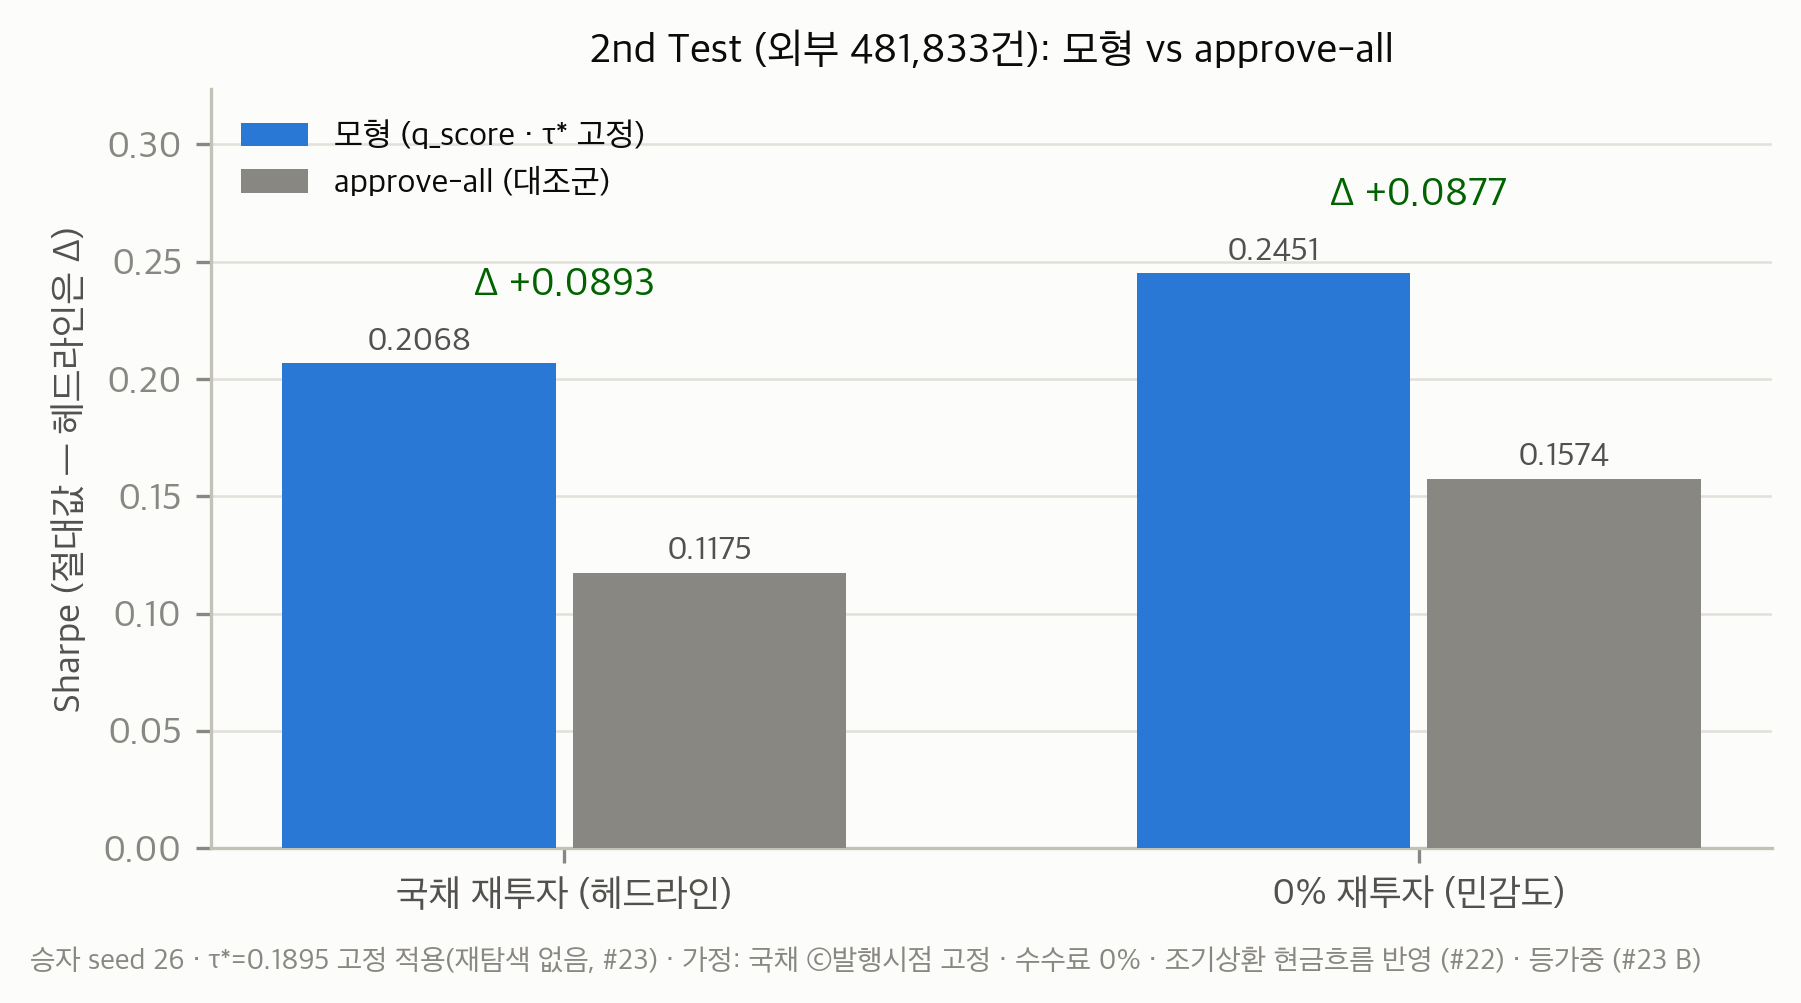
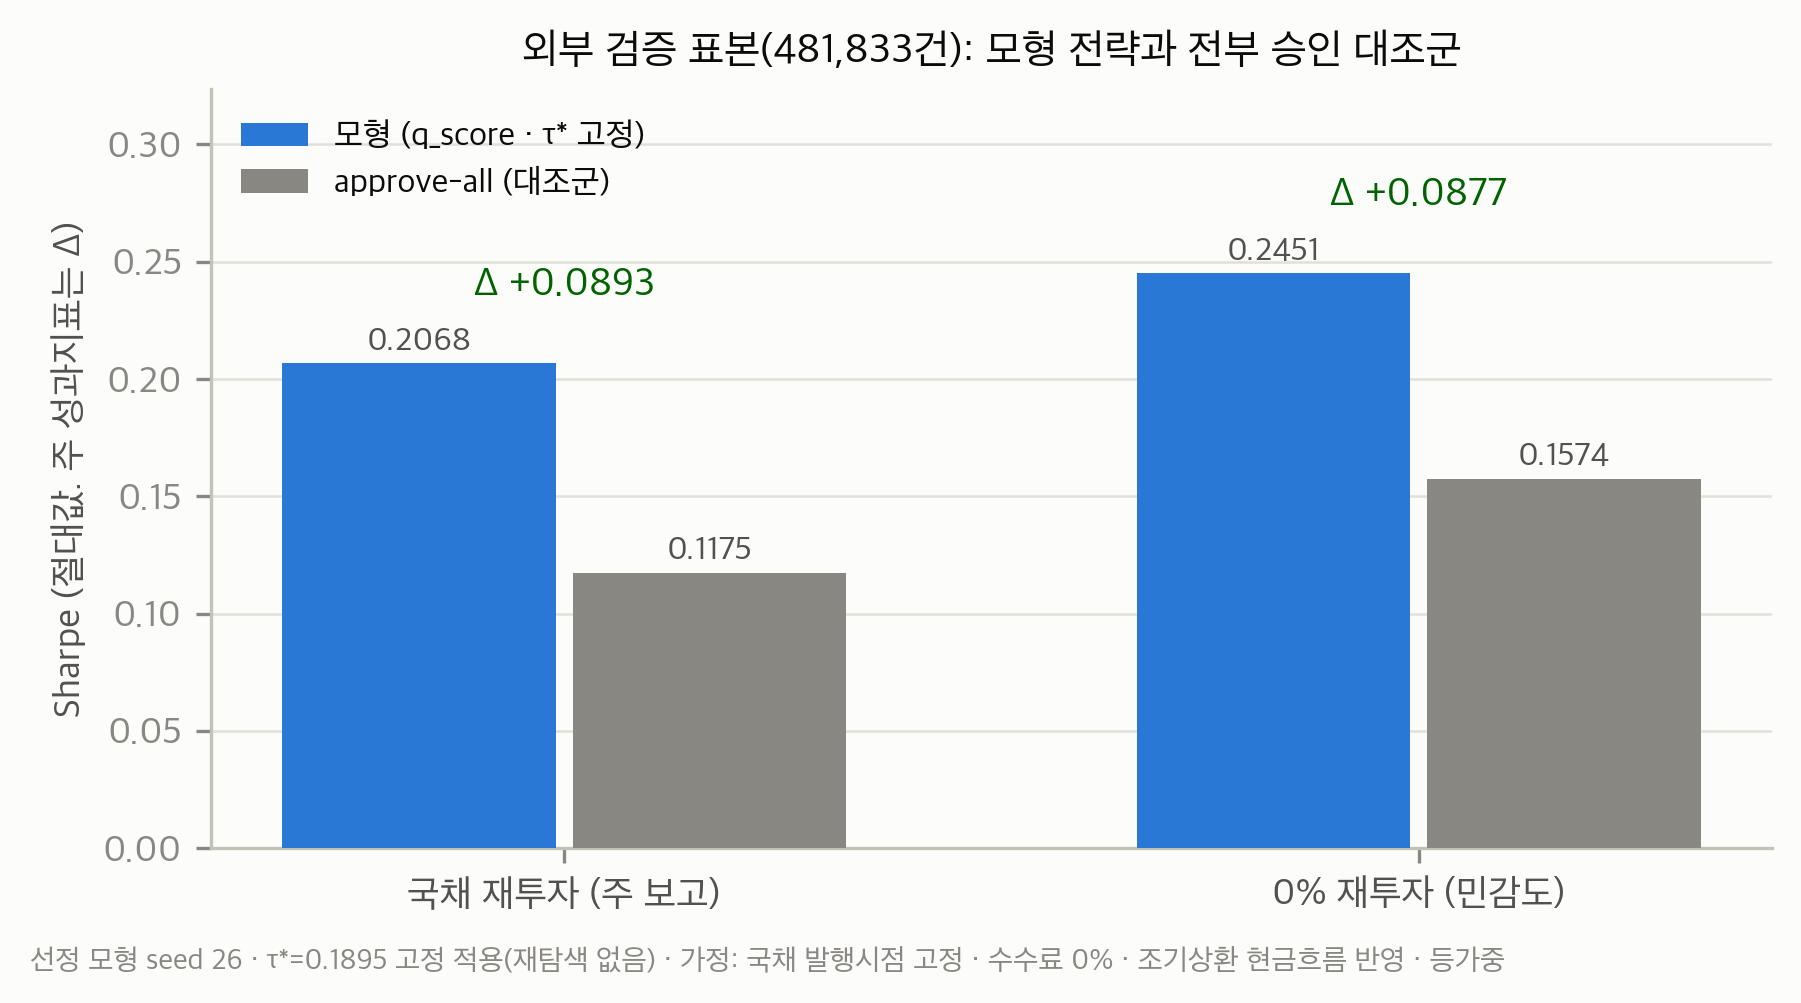
fix: 그림 6종에서 내부 식별자·금칙어 제거 (#50)
`plots.py`가 그림 제목·캡션에 인쇄하던 내부 표기가 제출용 PDF에 그대로 나오고
있었다. `docs/REPORT_CONVENTION.md` 규칙 2(내부 작업 식별자 제거)·규칙 4(문체)
위반이며, 심사자에게는 뜻이 통하지 않는 표기다.

- 이슈 번호 `#20`~`#23` 전부 삭제
- 금칙어: `헤드라인` → `주 보고` / `주 성과지표`
- 내부 용어: `2nd Test` → `외부 검증 표본`, `승자` → `선정 모형`,
  `K=50` → `50회`, `구조 A′의 칸 구조` → `PD 분위 × 만기 칸별 …`
- 내부 참조: `6:2:2 OOF 진단 산출물(oof_diagnostics.py) — 8:2 본실행 산출물이 아님`
  → `모형 진단 단계의 예비 분석 산출물 · 최종 분석과 분할 설정이 다르다`
- 판정형 제목(`q_score 우세`, `분포 안에 든다`)을 본문 그림 캡션과 같은
  중립 명사구로 교체

렌더링되는 문자열만 바꿨다. 코드 주석·docstring의 결정 번호는 그 코드가 어느
결정을 구현한 것인지 추적하는 정보라 그대로 둔다.

분할 체계 표기는 `src/viz/AGENTS.md`가 각주에 요구하지만 제출 규칙이 금지해,
파일명(`fig_cell_means_6_2_2_oof.png`)이 추적성을 담당하도록 했다. 시각화 규칙
갱신 여부는 팀 판단으로 남긴다.

diff --git a/src/viz/plots.py b/src/viz/plots.py
@@ -40,7 +40,7 @@ ORANGE = "#eb6834"
 SEQ_LIGHT = "#86b6ef"
 GOOD = "#006300"
 
-ASSUMPTION_CAPTION = "가정: 국채 ⓒ발행시점 고정 · 수수료 0% · 조기상환 현금흐름 반영 (#22) · 등가중 (#23 B)"
+ASSUMPTION_CAPTION = "가정: 국채 발행시점 고정 · 수수료 0% · 조기상환 현금흐름 반영 · 등가중"
 
 mpl.rcParams.update({
     "font.family": ["Apple SD Gothic Neo", "AppleGothic", "sans-serif"],
@@ -66,7 +66,7 @@ mpl.rcParams.update({
     "axes.titlesize": 10,
 })
 
-REINVEST_LABEL = {"treasury": "국채 재투자 (헤드라인)", "cash": "0% 재투자 (민감도)"}
+REINVEST_LABEL = {"treasury": "국채 재투자 (주 보고)", "cash": "0% 재투자 (민감도)"}
 CRITERION_ORDER = ["E[XR]", "pd (보정 전)", "q_score"]  # 아래→위 표시 순서
 
 
@@ -101,7 +101,7 @@ def plot_k50_delta() -> Path:
         ax.set_xlabel("Δ Sharpe (모형 − approve-all)")
         ax.grid(axis="y", visible=False)
         ax.tick_params(axis="y", colors=INK2)
-    fig.suptitle("K=50 재분할에서 랭킹 기준 3종의 Δ Sharpe — q_score 우세 (#21 ①)", x=0.01, ha="left")
+    fig.suptitle("50회 재분할 반복에서 랭킹 기준 3종의 Validation Δ Sharpe 분포", x=0.01, ha="left")
     _caption(fig, f"세로선=중앙값 · 점=재분할 seed 1개 · 8:2+OOF 3-fold · {ASSUMPTION_CAPTION}")
     fig.tight_layout(rect=(0, 0, 1, 0.99))
     out = FIGURES / "fig_k50_delta_8_2_3fold.png"
@@ -125,13 +125,13 @@ def plot_k50_tau() -> Path:
     ax.annotate(f"중앙값 τ = {median_tau:.4f}", (median_tau, ymax * 0.97),
                 ha="right", va="top", fontsize=8, color=INK2, xytext=(-5, 0),
                 textcoords="offset points")
-    ax.annotate(f"승자 seed {int(winner['seed'])}\nτ* = {winner['threshold']:.4f}",
+    ax.annotate(f"선정 모형 seed {int(winner['seed'])}\nτ* = {winner['threshold']:.4f}",
                 (float(winner["threshold"]), ymax * 0.78), ha="left", va="top",
                 fontsize=8, color=INK, xytext=(6, 0), textcoords="offset points")
     ax.set_xlabel("τ* (q_score 승인선, Validation Sharpe 최대점)")
     ax.set_ylabel("seed 수")
     ax.grid(axis="x", visible=False)
-    ax.set_title("K=50 재분할의 τ* 분포 — 승자 τ*가 중앙값 곁에 있다 (#21 ④)")
+    ax.set_title("50회 재분할 반복의 τ* 분포")
     _caption(fig, f"국채 재투자 · q_score · 8:2+OOF 3-fold · {ASSUMPTION_CAPTION}")
     fig.tight_layout()
     out = FIGURES / "fig_k50_tau_8_2_3fold.png"
@@ -167,12 +167,12 @@ def plot_second_test_benchmark() -> Path:
                     ha="center", fontsize=9.5, color=GOOD, fontweight="bold")
     ax.set_xticks(x)
     ax.set_xticklabels([REINVEST_LABEL[r] for r in order], color=INK2)
-    ax.set_ylabel("Sharpe (절대값 — 헤드라인은 Δ)")
+    ax.set_ylabel("Sharpe (절대값. 주 성과지표는 Δ)")
     ax.set_ylim(0, max(model) * 1.32)
     ax.grid(axis="x", visible=False)
     ax.legend(frameon=False, fontsize=8, loc="upper left")
-    ax.set_title("2nd Test (외부 481,833건): 모형 vs approve-all")
-    _caption(fig, f"승자 seed 26 · τ*=0.1895 고정 적용(재탐색 없음, #23) · {ASSUMPTION_CAPTION}")
+    ax.set_title("외부 검증 표본(481,833건): 모형 전략과 전부 승인 대조군")
+    _caption(fig, f"선정 모형 seed 26 · τ*=0.1895 고정 적용(재탐색 없음) · {ASSUMPTION_CAPTION}")
     fig.tight_layout()
     out = FIGURES / "fig_2ndtest_benchmark_8_2.png"
     fig.savefig(out)
@@ -192,17 +192,17 @@ def plot_generalization() -> Path:
     rng = np.random.default_rng(1)
     fig, ax = plt.subplots(figsize=(7.0, 2.6))
     ax.scatter(vals, rng.normal(0, 0.05, len(vals)), s=16, color=MUTED, alpha=0.6,
-               linewidths=0, zorder=3, label="Validation Δ (K=50 재분할)")
+               linewidths=0, zorder=3, label="Validation Δ (50회 재분할)")
     mean = float(vals.mean())
     ax.plot([mean, mean], [-0.18, 0.18], color=INK, lw=1.6, zorder=4)
-    ax.annotate(f"K=50 평균 {mean:+.4f}", (mean, 0.22), ha="center", fontsize=8, color=INK2)
+    ax.annotate(f"50회 평균 {mean:+.4f}", (mean, 0.22), ha="center", fontsize=8, color=INK2)
     ax.scatter([float(winner["delta_sharpe"])], [0], s=70, facecolors="none",
-               edgecolors=BLUE, linewidths=1.8, zorder=5, label="승자 seed 26 (Validation)")
-    ax.annotate(f"승자 (Val) {float(winner['delta_sharpe']):+.4f}",
+               edgecolors=BLUE, linewidths=1.8, zorder=5, label="선정 모형 seed 26 (Validation)")
+    ax.annotate(f"선정 모형 (Validation) {float(winner['delta_sharpe']):+.4f}",
                 (float(winner["delta_sharpe"]), -0.28), ha="center", fontsize=8, color=INK2)
     ax.scatter([st_delta], [0], s=90, marker="D", color=BLUE, zorder=6,
-               edgecolors=SURFACE, linewidths=1.2, label="2nd Test (τ* 고정)")
-    ax.annotate(f"2nd Test {st_delta:+.4f}", (st_delta, 0.34), ha="center",
+               edgecolors=SURFACE, linewidths=1.2, label="외부 검증 표본 (τ* 고정)")
+    ax.annotate(f"외부 검증 표본 {st_delta:+.4f}", (st_delta, 0.34), ha="center",
                 fontsize=9, color=INK, fontweight="bold")
     ax.set_ylim(-0.55, 0.62)
     ax.set_yticks([])
@@ -210,7 +210,7 @@ def plot_generalization() -> Path:
     ax.grid(axis="y", visible=False)
     ax.legend(frameon=False, fontsize=8, loc="upper left", ncols=1,
               bbox_to_anchor=(0.0, 1.02))
-    ax.set_title("일반화: 2nd Test Δ가 K=50 Validation 분포 안에 든다")
+    ax.set_title("50회 반복의 Validation Δ Sharpe 분포와 외부 검증 표본 Δ Sharpe의 위치")
     _caption(fig, f"국채 재투자 · q_score · 8:2+OOF 3-fold · {ASSUMPTION_CAPTION}")
     fig.tight_layout()
     out = FIGURES / "fig_generalization_8_2_3fold.png"
@@ -240,13 +240,13 @@ def plot_cell_means() -> Path:
                         xytext=(6, 0), textcoords="offset points", va="center",
                         fontsize=8, color=INK2)
         ax.set_xticks(range(1, 11))
-        ax.set_xlabel("PD 분위 (보정 전 PD, term별 10분위)")
+        ax.set_xlabel("PD 분위 (보정 전 PD, 만기별 10분위)")
         ax.set_title(title)
         ax.grid(axis="x", visible=False)
     ax1.set_ylabel("수익률 (연율)")
-    fig.suptitle("구조 A′의 칸 구조 — 분위가 오를수록 부도 손실은 깊어지고 E[XR]는 얇아진다 (#20)",
+    fig.suptitle("PD 분위 × 만기 칸별 부도 칸 평균 수익률과 결합 기대 초과수익 E[XR]",
                  x=0.01, ha="left")
-    _caption(fig, "출처: 6:2:2 OOF 진단 산출물(oof_diagnostics.py, #20·#21 근거) — 8:2 본실행 산출물이 아님 · "
+    _caption(fig, "출처: 모형 진단 단계의 예비 분석 산출물 · 최종 분석과 분할 설정이 다르다 · "
                   + ASSUMPTION_CAPTION)
     fig.tight_layout(rect=(0, 0, 0.97, 0.99))
     out = FIGURES / "fig_cell_means_6_2_2_oof.png"
@@ -273,8 +273,8 @@ def plot_calibration_ece() -> Path:
     ax.set_xticklabels([name for _, name, _ in stages], color=INK2)
     ax.set_ylabel("ECE (%p) — Validation")
     ax.grid(axis="x", visible=False)
-    ax.set_title("isotonic 보정으로 Validation ECE 감소 (#21 ②)")
-    _caption(fig, "출처: 6:2:2 OOF 진단(진단 C-4) · E[XR]의 p̂만 보정 후 PD를 쓴다(역할 분리)")
+    ax.set_title("isotonic 보정 전과 후의 Validation 기대 보정 오차(ECE)")
+    _caption(fig, "출처: 모형 진단 단계의 예비 분석 산출물 · 최종 분석과 분할 설정이 다르다 · E[XR]의 p̂만 보정 후 PD를 쓴다(역할 분리)")
     fig.tight_layout()
     out = FIGURES / "fig_calibration_ece_6_2_2_oof.png"
     fig.savefig(out)
